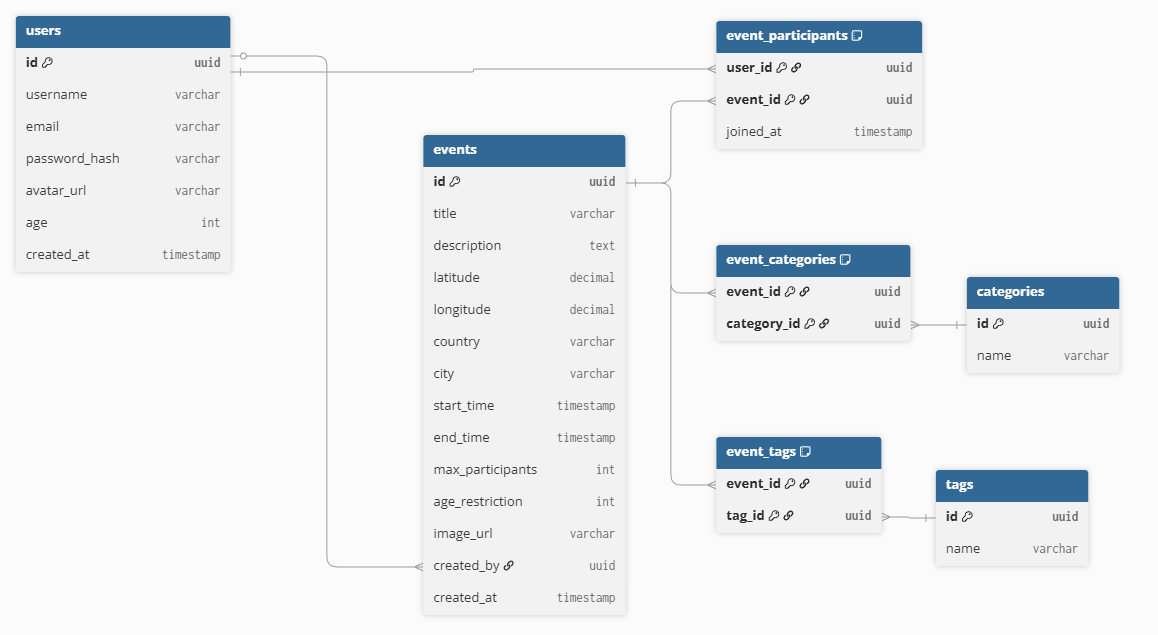
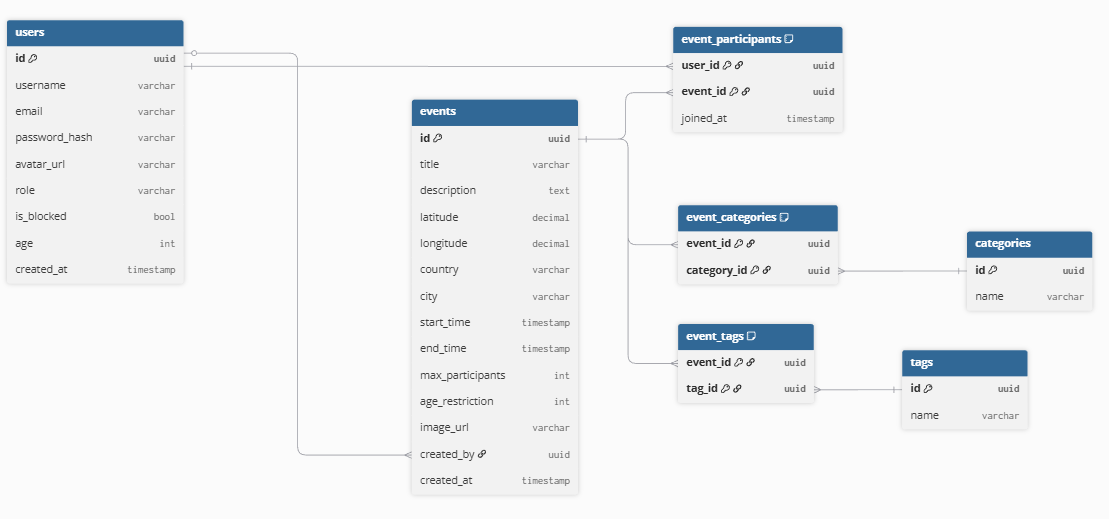
docs: #107 (update documentation)
update tables

diff --git a/docs/src/Reference/database-design/description.md b/docs/src/Reference/database-design/description.md
@@ -4,15 +4,17 @@
 
 ### users
 
-| Field Name    | Type      | Description            |
-| ------------- | --------- | ---------------------- |
-| id            | UUID      | Unique user identifier |
-| username      | VARCHAR   | User nickname          |
-| email         | VARCHAR   | User email address     |
-| password_hash | VARCHAR   | Hashed password        |
-| avatar_url    | VARCHAR   | Profile image URL      |
-| age           | INTEGER   | User age               |
-| created_at    | TIMESTAMP | Account creation date  |
+| Field Name    | Type      | Description                 |
+| ------------- | --------- | ----------------------      |
+| id            | UUID      | Unique user identifier      |
+| username      | VARCHAR   | User nickname               |
+| email         | VARCHAR   | User email address          |
+| password_hash | VARCHAR   | Hashed password             |
+| avatar_url    | VARCHAR   | Profile image URL           |
+| role          | VARCHAR   | Role string - "admin"/user  |
+| is_blocked    | BOOLEAN   | Is blocked user flag        |
+| age           | INTEGER   | User age                    |
+| created_at    | TIMESTAMP | Account creation date       |
 
 ### events
 
@@ -72,7 +74,7 @@
 
 ## Diagram
 
-![DB-diagram-image](../../assets/database-design/diagram.png)
+![DB-diagram-image](../../../assets/database-design/diagram.png)
 
 ## DBML Format
 
@@ -85,6 +87,8 @@ Table users {
   email varchar [unique]
   password_hash varchar
   avatar_url varchar
+  role varchar
+  is_blocked bool
   age int
   created_at timestamp
 }
